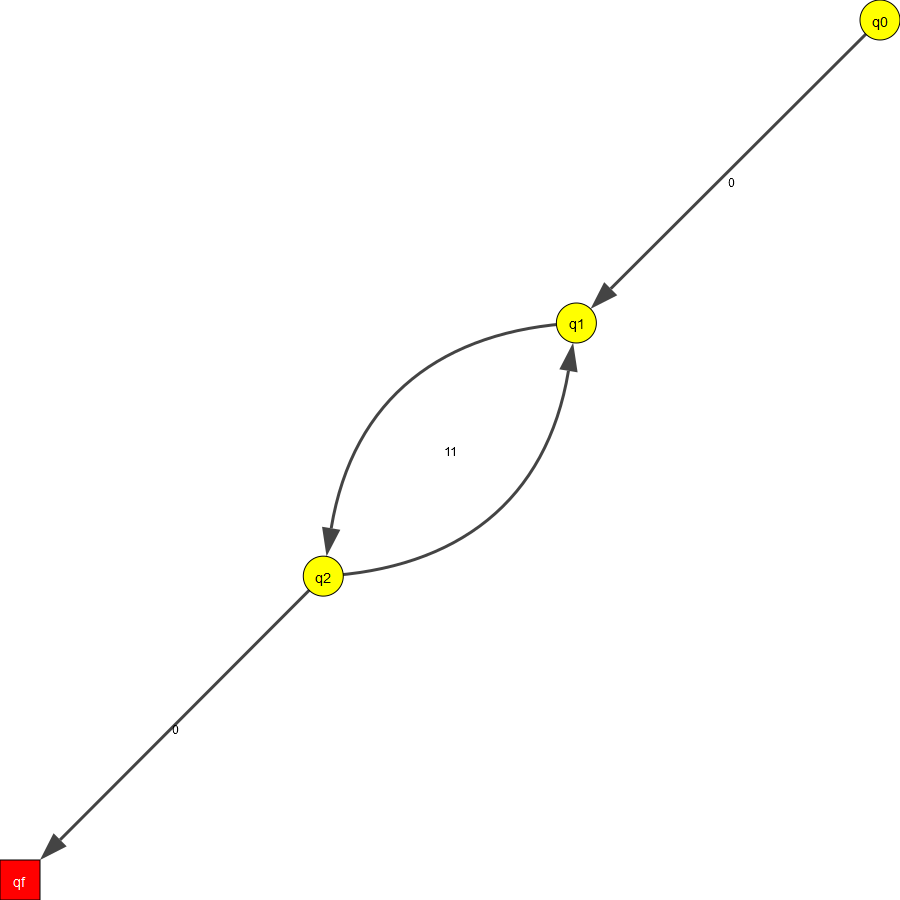
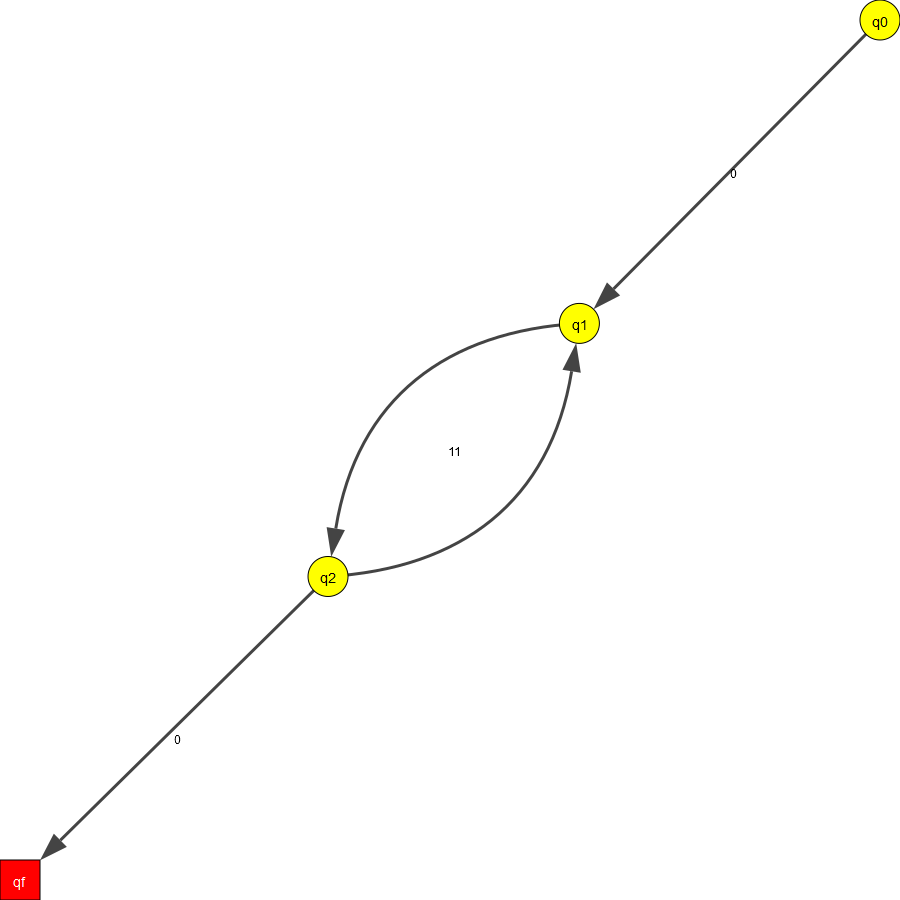
mexendo

diff --git a/interface/tab_AFD.py b/interface/tab_AFD.py
@@ -81,6 +81,15 @@ class Tab_AFD():
         self.edits_5Tupla[5].insert('1.0', 's0, a, s1\ns0, b, s2\ns1, a, s1\ns1, b, s3\ns2, a, s1\ns2, b, s2\ns3, a, s1\ns3, b, s4\ns4, a, s1\ns4, b, s2')
 
     def inicia_prog(self):
+        rules = self.edits_5Tupla[5].get('1.0', tk.END)
+        aux = ''
+        for num, elem in enumerate(rules):
+            if elem == ',' and rules[num+1] != ' ':
+                aux += ', '
+            else:
+                aux += elem
+        self.edits_5Tupla[5].delete('1.0', tk.END)
+        self.edits_5Tupla[5].insert('1.0', aux)
         self.dados = {
             'Q': self.edits_5Tupla[0].get().replace(',', '').split(),
             'E': self.edits_5Tupla[1].get().replace(',', '').split(),
@@ -117,8 +126,8 @@ class Tab_AFD():
     def coloca_img(self, n_img):
         img = Image.open(n_img)
         test = ImageTk.PhotoImage(img)
-        # if self.lbl_img is not None:
-        #     self.lbl_img.pack_forget()
+        if self.lbl_img is not None:
+            self.lbl_img.pack_forget()
         self.frm_img.grid(column=0, row=5, columnspan=2, sticky='news', padx=(10, 10), pady=(10, 10))
         self.lbl_img = tk.Label(self.frm_img, image=test)
         self.lbl_img.image = test
